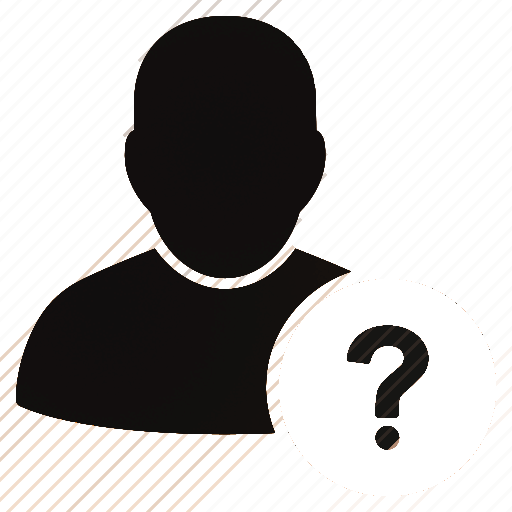
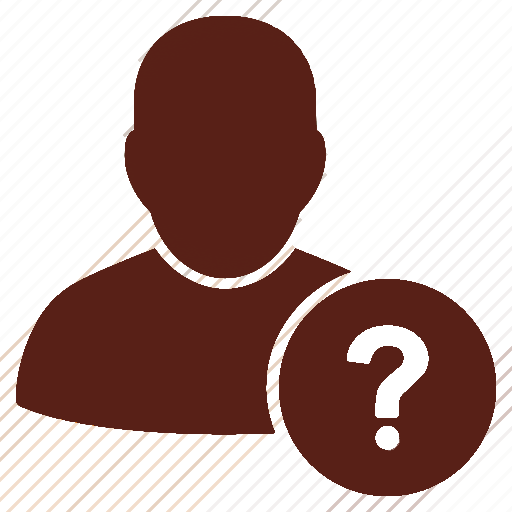
style (modify color)

diff --git a/views/components/pagination/pagination.css b/views/components/pagination/pagination.css
@@ -17,7 +17,7 @@
 .pagination ul li a {
     display: inline-block;
     padding: 10px 15px;
-    background-color: #007bff; 
+    background-color: #C44F3B; 
     color: white; 
     text-decoration: none;
     border-radius: 5px;
@@ -25,11 +25,11 @@
 }
 
 .pagination ul li a:hover {
-    background-color: #0056b3; 
+    background-color: #582017; 
 }
 
 .pagination ul li a.active {
-    background-color: #0056b3; 
+    background-color: #582017; 
     color: white;
     pointer-events: none; 
 }
@@ -50,7 +50,7 @@
 .form-pagination select {
     padding: 8px 10px;
     font-size: 16px;
-    border: 1px solid #007bff;
+    border: 1px solid #C44F3B;
     border-radius: 5px;
     background-color: #f9f9f9;
     color: #333;
@@ -59,7 +59,7 @@
 
 .form-pagination select:focus {
     outline: none;
-    border-color: #0056b3;
+    border-color: #773131;
     background-color: #fff;
 }
 

diff --git a/views/components/header/header.css b/views/components/header/header.css
@@ -1,12 +1,12 @@
 /* Estilos del header */
 header {
-    background-color: #007bff;
+    background-color: #C44F3B;
     padding: 15px 25px;
 }
 
 .icon-house {
-    color: rgb(0, 0, 0);
-    font-size: 24px;
+    color: #582017;
+    font-size: 35px;
 }
 
 .navbar {
@@ -15,8 +15,8 @@ header {
 }
 
 .profile-icon {
-    width: 40px;
-    height: 40px;
+    width: 50px;
+    height: 50px;
     cursor: pointer;
 }
 

diff --git a/views/components/footer/footer.css b/views/components/footer/footer.css
@@ -1,6 +1,6 @@
 /* Andreu Sánchez Guerrero */
 .footer {
-    background-color: #007bff; /* Color de fondo azul */
+    background-color: #C44F3B; /* Color de fondo azul */
     color: white; /* Color de texto blanco */
     text-align: center; /* Centrar el contenido */
     padding: 15px 0; /* Espaciado interno */

diff --git a/views/components/form/from.css b/views/components/form/from.css
@@ -22,7 +22,7 @@
 }
 
 .btn-primary {
-    background-color: #007bff; 
+    background-color: #C44F3B; 
     margin-top: 10px;
     transition: background-color 0.4s ease, color 0.4s ease;
 }

diff --git a/views/components/books/books.css b/views/components/books/books.css
@@ -24,7 +24,7 @@ form .error i {
 }
 
 .table th {
-    background-color: #007bff; 
+    background-color: #C44F3B; 
     color: white;
 }
 

diff --git a/views/layout.css b/views/layout.css
@@ -13,7 +13,7 @@ body {
 }
 
 h2 {
-    color: #007bff;
+    color: #C44F3B;
     font-size: 2em;
 }
 

diff --git a/views/components/form/form.php b/views/components/form/form.php
@@ -1,4 +1,8 @@
 <?php
+if (session_status() == PHP_SESSION_NONE) {
+    session_start();
+}
+// Colocar todo el control de acciones aquí, al principio del archivo, para evitar cualquier salida HTML o echo antes del uso de header().
 if (CustomSessionHandler::get('success')) {
     $success = true;
     CustomSessionHandler::remove('success');
@@ -7,7 +11,6 @@ if (CustomSessionHandler::get('success')) {
     CustomSessionHandler::remove('success');
     CustomSessionHandler::remove('errors');
 }
-
 
 // Comprobar si es una acción de eliminación
 if (isset($_GET['action']) && $_GET['action'] == 'delete' && isset($_GET['id'])) {
@@ -58,48 +61,31 @@ if (isset($_GET['action']) && $_GET['action'] == 'edit' && isset($_GET['id'])) {
     }
 }
 ?>
-
-
+<!-- Hasta este punto no debería haber ninguna salida hacia el navegador -->
 
 <div>
-    <!-- Formulari de creació/edició, detecta automàticament si estem en edició o creació -->
+    <!-- Formulario de creación/edición -->
     <form action="<?php echo $isEdit ? 'index.php?action=update&id=' . $bookToEdit['id'] : htmlspecialchars($_SERVER['PHP_SELF']); ?>" method="POST" class="form-book">
-        <!-- Títol del formulari amb un ternari, si estem en edició editem i si no creem-->
         <h2><?php echo $isEdit ? 'Edit book' : 'Add new book'; ?></h2>
 
         <div class="form-group">
             <label for="isbn">ISBN:</label>
-            <input  type="text" 
-                    id="isbn" 
-                    name="isbn" 
-                    class="form-control" 
-                    required 
-                    value="<?php echo $isEdit ? htmlspecialchars($bookToEdit['isbn']) : ''; ?>"> <!-- Si estem en edició, carregar el ISBN del llibre -->
+            <input type="text" id="isbn" name="isbn" class="form-control" required value="<?php if ($isEdit) echo htmlspecialchars($bookToEdit['isbn']); ?>">
         </div>
 
         <div class="form-group">
             <label for="name">Book Name:</label>
-            <input  type="text" 
-                    id="name" 
-                    name="name" 
-                    class="form-control" 
-                    required 
-                    value="<?php echo $isEdit ? htmlspecialchars($bookToEdit['name']) : ''; ?>"> <!-- Si estem en edició, carregar el nom del llibre -->
+            <input type="text" id="name" name="name" class="form-control" required value="<?php if ($isEdit) echo htmlspecialchars($bookToEdit['name']); ?>">
         </div>
 
         <div class="form-group">
             <label for="author">Name of the author:</label>
-            <input  type="text" 
-                    id="author" 
-                    name="author" 
-                    class="form-control" 
-                    required 
-                    value="<?php echo $isEdit ? htmlspecialchars($bookToEdit['author']) : ''; ?>"> <!-- Si estem en edició, carregar l'autor del llibre -->
+            <input type="text" id="author" name="author" class="form-control" required value="<?php if ($isEdit) echo htmlspecialchars($bookToEdit['author']); ?>">
         </div>
 
         <button type="submit" class="btn btn-primary"><?php echo $isEdit ? 'Update book' : 'Add book'; ?></button>
 
-        <!-- Comprovar si hi han errors i mostrar-los en cas de que hi hagin -->
+        <!-- Mostrar errores si los hay -->
         <?php if (!empty($errors)): ?> 
             <div class="error">
                 <?php foreach ($errors as $error): ?>
@@ -108,8 +94,7 @@ if (isset($_GET['action']) && $_GET['action'] == 'edit' && isset($_GET['id'])) {
             </div>
         <?php endif; ?>
 
-        <!-- Camp ocult per identificar que es el formulari de creació/edició al hora de fer el submit -->
+        <!-- Campo oculto para identificar si es edición o creación -->
         <input type="hidden" name="form_type" value="book_form">
     </form>
 </div>
-

diff --git a/views/components/pagination/pagination-option.php b/views/components/pagination/pagination-option.php
@@ -1,12 +1,12 @@
 <?php
 // Andreu Sánchez Guerrero
 // Obtener el número de libros por página, si no se ha especificado, mostrar 5 por defecto
-$booksPerPage = CustomSessionHandler::get('booksPerPage') ? CustomSessionHandler::get('booksPerPage') : 5;
+$booksPerPage = CustomSessionHandler::get('booksPerPage') ?? 5;
 $totalBooks = count($booksToUse); // Contar los libros que se están usando
 $totalPages = $totalBooks > 0 ? ceil($totalBooks / $booksPerPage) : 1;  // Siempre debe haber al menos 1 página 
 
 // Determinar la página actual
-$page = isset($_GET['page']) ? $_GET['page'] : 1; // Obtener la página de la URL o establecer por defecto en 1
+$page = isset($_GET['page']) ? (int)$_GET['page'] : 1; // Obtener la página de la URL o establecer por defecto en 1
 
 // Verificar si el valor de la página es un número entero válido y está dentro del rango de páginas
 if (!filter_var($page, FILTER_VALIDATE_INT) || $page < 1 || $page > $totalPages) {
@@ -19,8 +19,25 @@ if (!filter_var($page, FILTER_VALIDATE_INT) || $page < 1 || $page > $totalPages)
 $offset = ($page - 1) * $booksPerPage;
 
 // Obtener los libros correspondientes a la página actual
-$booksToShow = $bookController->getBooksByPage($booksPerPage, $offset); // Cambiado a `getBooksByPage()`
+$booksToShow = $bookController->getBooksByPage($booksPerPage, $offset, CustomSessionHandler::get('user_id')); // Cambiado a getBooksByPage()
 
+// Verificar qué formulario ha sido enviado mediante el campo oculto "form_type"
+if ($_SERVER["REQUEST_METHOD"] == "POST") {
+    
+    // Manejo del formulario de paginación
+    if (isset($_POST['form_type']) && $_POST['form_type'] == 'pagination') {
+        CustomSessionHandler::set('booksPerPage', (int)$_POST['booksPerPage']);
+        // Redirigir a la página actual con el valor del input "page"
+        header("Location: " . $_SERVER['PHP_SELF'] . "?page=" . $_POST['page']);
+        exit();
+    }
+
+    // Manejo del formulario de libros
+    elseif (isset($_POST['form_type']) && $_POST['form_type'] == 'book_form') {
+        include 'controllers/form-data-control.php';
+        exit();
+    }
+}
 ?>
 
 <form action="<?php echo htmlspecialchars($_SERVER['PHP_SELF']); ?>" method="POST" class="form-pagination">
@@ -35,23 +52,5 @@ $booksToShow = $bookController->getBooksByPage($booksPerPage, $offset); // Cambi
     <input type="hidden" name="form_type" value="pagination">
 
     <!-- Campo oculto para mantener la página actual -->
-    <input type="hidden" name="page" value="<?php echo isset($page) ? $page : 1; ?>">
+    <input type="hidden" name="page" value="<?php echo isset($page) ? (int)$page : 1; ?>">
 </form>
-
-
-
-
-<?php                        
-// Verificar qué formulario ha sido enviado mediante el campo oculto "form_type"
-if ($_SERVER["REQUEST_METHOD"] == "POST") {
-    if (isset($_POST['form_type']) && $_POST['form_type'] == 'pagination') {
-        // Si se envió el formulario de paginación
-        CustomSessionHandler::set('booksPerPage', (int)$_POST['booksPerPage']);
-        // Redirigir a la página actual con el valor del input "page"
-        header("Location: " . $_SERVER['PHP_SELF'] . "?page=" . $_POST['page']);
-        exit();
-    } elseif (isset($_POST['form_type']) && $_POST['form_type'] == 'book_form') {
-        include 'controllers/form-data-control.php'; // Asegúrate de tener la lógica correcta en form-data-control.php
-    }
-}
-?>

diff --git a/controllers/BookController.php b/controllers/BookController.php
@@ -50,8 +50,13 @@ class BookController {
         return $this->bookModel->deleteBook($id);
     }
 
-    public function getBooksByPage($limit, $offset) {
-        $stmt = $this->pdo->prepare("SELECT * FROM books LIMIT :limit OFFSET :offset");
+    public function getBooksByPage($limit, $offset, $userId = null) {
+        if ($userId) {
+            $stmt = $this->pdo->prepare("SELECT * FROM books WHERE user_id = :userId LIMIT :limit OFFSET :offset");
+            $stmt->bindParam(':userId', $userId, PDO::PARAM_INT);
+        } else {
+            $stmt = $this->pdo->prepare("SELECT * FROM books LIMIT :limit OFFSET :offset");
+        }
         $stmt->bindParam(':limit', $limit, PDO::PARAM_INT);
         $stmt->bindParam(':offset', $offset, PDO::PARAM_INT);
         $stmt->execute();

diff --git a/index.php b/index.php
@@ -1,6 +1,10 @@
 <?php
 // Andreu Sánchez Guerrero
 session_start();
+if (headers_sent($file, $line)) {
+    die("Headers already sent in $file on line $line");
+}
+
 require_once 'config/database/connection.php'; 
 require_once 'controllers/CustomSessionHandler.php';
 require_once 'controllers/BookController.php';
@@ -26,7 +30,7 @@ $userBooks = $bookController->getBooks($userId);
 $booksToUse = $userId ? $userBooks : $books;
 
 // Incloure la vista principal
-require_once 'views/layout.php'; 
+include_once 'views/layout.php'; 
 ?>
 
 

diff --git a/views/components/books/books.php b/views/components/books/books.php
@@ -24,8 +24,7 @@
                 </tr>
             </thead>
             <tbody>
-                <?php $buks = (CustomSessionHandler::get('user_id')) ? $booksToUse : $booksToShow ?>
-                <?php foreach ($buks as $book): ?>
+                <?php foreach ($booksToShow as $book): ?>
                     <tr>
                         <td><?= htmlspecialchars($book['isbn']); ?></td>  
                         <td><?= htmlspecialchars($book['name']); ?></td>  

diff --git a/controllers/form-data-control.php b/controllers/form-data-control.php
@@ -1,8 +1,12 @@
 <?php
+
 // Andreu Sánchez Guerrero
 // Incluir el manejador de sesiones y el modelo de libros
 include_once 'CustomSessionHandler.php';
 require_once 'models/Books.php';  // Cambiado a Book
+if (session_status() == PHP_SESSION_NONE) {
+    session_start();
+}
 
 // Obtener el user_id de la sesión
 $userId = CustomSessionHandler::get('user_id');
